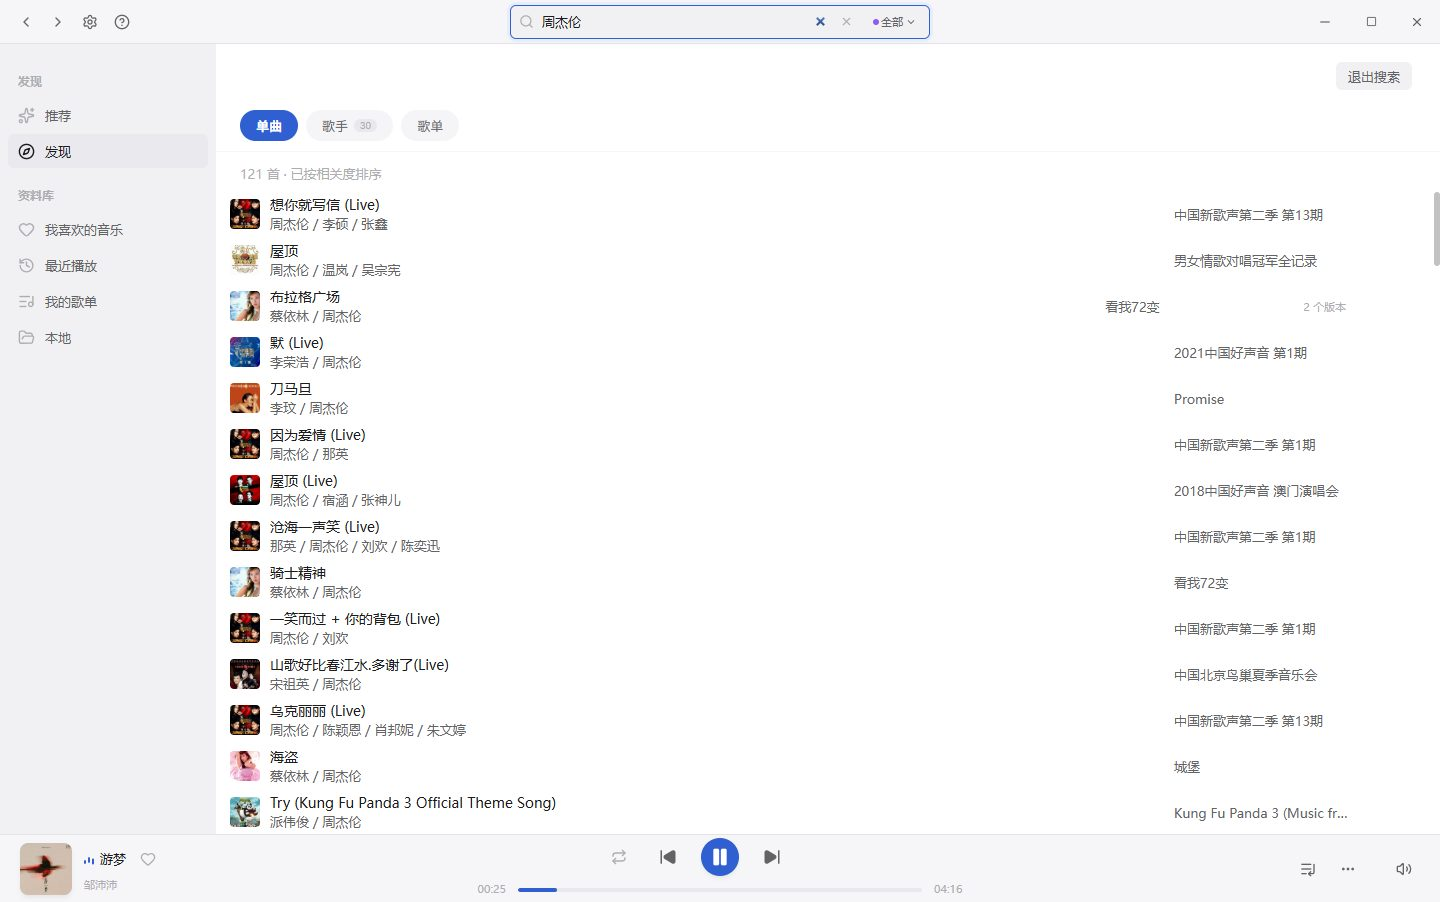
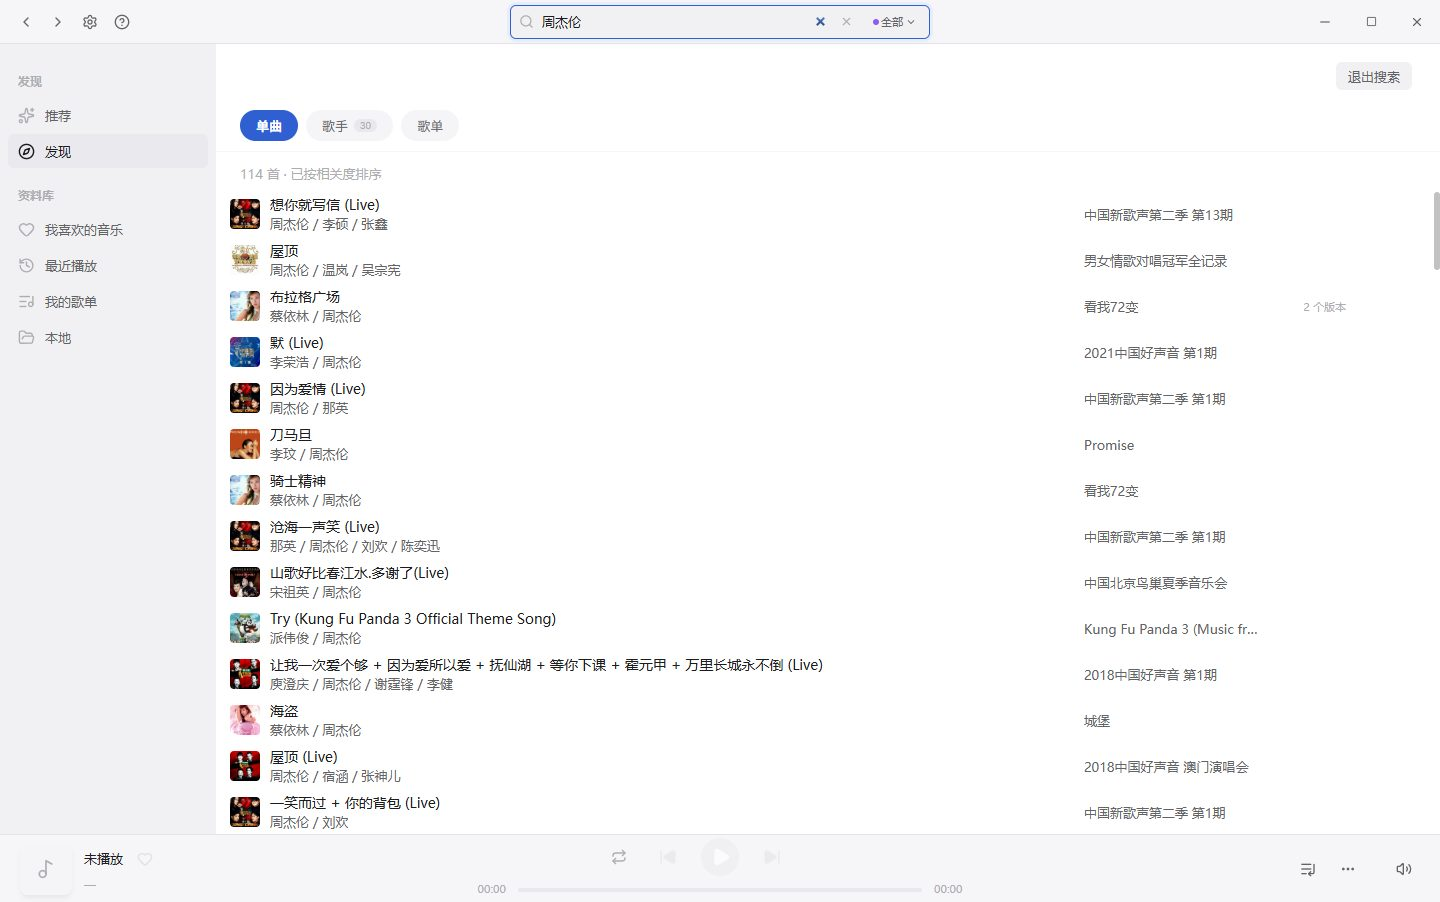
docs: 发版前活文档同步（逐字歌词术语与 README 功能/截图）

diff --git a/GLOSSARY.md b/GLOSSARY.md
@@ -126,6 +126,11 @@ _Avoid_: 探测缓存、URL 缓存、秒播缓存
 #429 起**移动端**列表把取词时机再前移一档：**行进入视口**即经 core `shared/lyricsHydrator` 入队预取（同 songId single-flight、可取消、单次入队有预算），点开播放器时歌词已在缓存里；预取是 best-effort——**失败不重试**（失败风暴的兜底是播放期取词），并发与限速仍只有 transport 双层闸门一套。这里刻意严于「进入视口」：**可见集合停稳 300ms 后才按整屏请求**，滑过但未停稳的行不请求（#421 防抢帧），行滑出可见集合时在同一次停稳判定里 `cancel*`。**桌面端未接（#441）**：桌面列表的可见集合来自 `useVirtualRows.items`，它缺停稳信号（每帧都可能变），且桌面歌词缓存在**主进程**、需经 `setLyricsHydratorDeps` 注入 IPC 取词器。
 _Avoid_: 内联歌词源、songid 源（口语可，术语用「按 ID 直取歌词源」）、取词源
 
+**逐字歌词**:
+歌词行内的**逐字时间轴**（core `LyricLine.words: LyricWord[]`，每项 = 相对歌曲开头的起始秒 + 时长 + 该字正文）。目前只有酷我 lrcx 产这层标签：行内 `<a,b>`，而 `[kuwo:NNN]` 文件头的 NNN 按**八进制**读出 v，k1 = ⌊v/10⌋、k2 = v mod 10，词起点 = |a+b| / (2·k1)、词长 = |a−b| / (2·k2)（毫秒、相对行首）。公式、真实样本与自证（末字终点与下一行时间戳逐毫秒相等）见 `docs/research/2026-10-29-kuwo-lrcx-word-timed-lyrics.md`。
+**缺文件头（拿不到系数）或整行都是 `<0,0>`（译文/占位行）时只剥标签、保留行级时间，不产轨道**；其余源仍是纯 LRC。渲染与行级口径无关：有轨道按词切单元，没有就把正文按字符**线性均分**，两者共用同一套呈现（已唱白 / 未唱灰 / 当前单元字内进度）。当前消费端只有桌面 `LyricsDisplay`；移动端 `PlayerOverlay` 仍只读行级。
+_Avoid_: 逐字高亮（那是呈现效果，不是时间轴）、KRC / QRC（别源的另一种格式，本仓取词链路里没有）
+
 **专辑默认源**:
 一张专辑所归属的音乐源。专辑是**源内实体**——同一个数字 id 在不同源是完全不同的专辑，因此专辑的身份与缓存一律是 `源 + 源内 id` 二元组，跨源不互送 id。
 它同时是「行徽章要不要显示」的比较基准：整张专辑同源是常态，逐行重复挂同源徽章是零信息量，只有**行的源 ≠ 专辑默认源**（单曲换源之后）才显示。

diff --git a/README.en.md b/README.en.md
@@ -150,7 +150,7 @@ flowchart LR
 
 | Area | What it does |
 | --- | --- |
-| Playback | Multi-source search, hot charts, three play modes (repeat one / repeat all / shuffle), play next, lyrics, global shortcuts, cover-version detection, skip-on-failure (on by default, can be turned off) |
+| Playback | Multi-source search, hot charts, three play modes (repeat one / repeat all / shuffle), play next, lyrics with karaoke-style word-by-word fill, global shortcuts, cover-version detection, skip-on-failure (on by default, can be turned off) |
 | Source switching | Per-track switching (full-version preference + playability probing + in-place replacement) |
 | Search | Songs / artists tabs, artist browsing and detail, strict-match backfill for songs without a URL |
 | Favourites / history | Automatic URL refresh written back to the DB; auto-recorded, viewable and clearable |

diff --git a/README.md b/README.md
@@ -150,7 +150,7 @@ flowchart LR
 
 | 分类 | 功能 |
 | --- | --- |
-| 播放 | 多源搜索、热歌榜、三种播放模式（单曲循环 / 列表循环 / 随机播放）、下一首播放、歌词、全局快捷键、试听版识别提示、失败即跳（默认开，可关） |
+| 播放 | 多源搜索、热歌榜、三种播放模式（单曲循环 / 列表循环 / 随机播放）、下一首播放、歌词（逐字歌词 / 卡拉 OK 填充）、全局快捷键、试听版识别提示、失败即跳（默认开，可关） |
 | 换源 | 单曲换源（完整版优先 + 可播性探测 + 原位替换） |
 | 搜索 | 歌曲 / 歌手 Tab、歌手浏览与详情、无 URL 歌曲严格匹配回填 |
 | 收藏 / 历史 | URL 自动刷新与 DB 回写；自动记录、查看 / 清空 |
